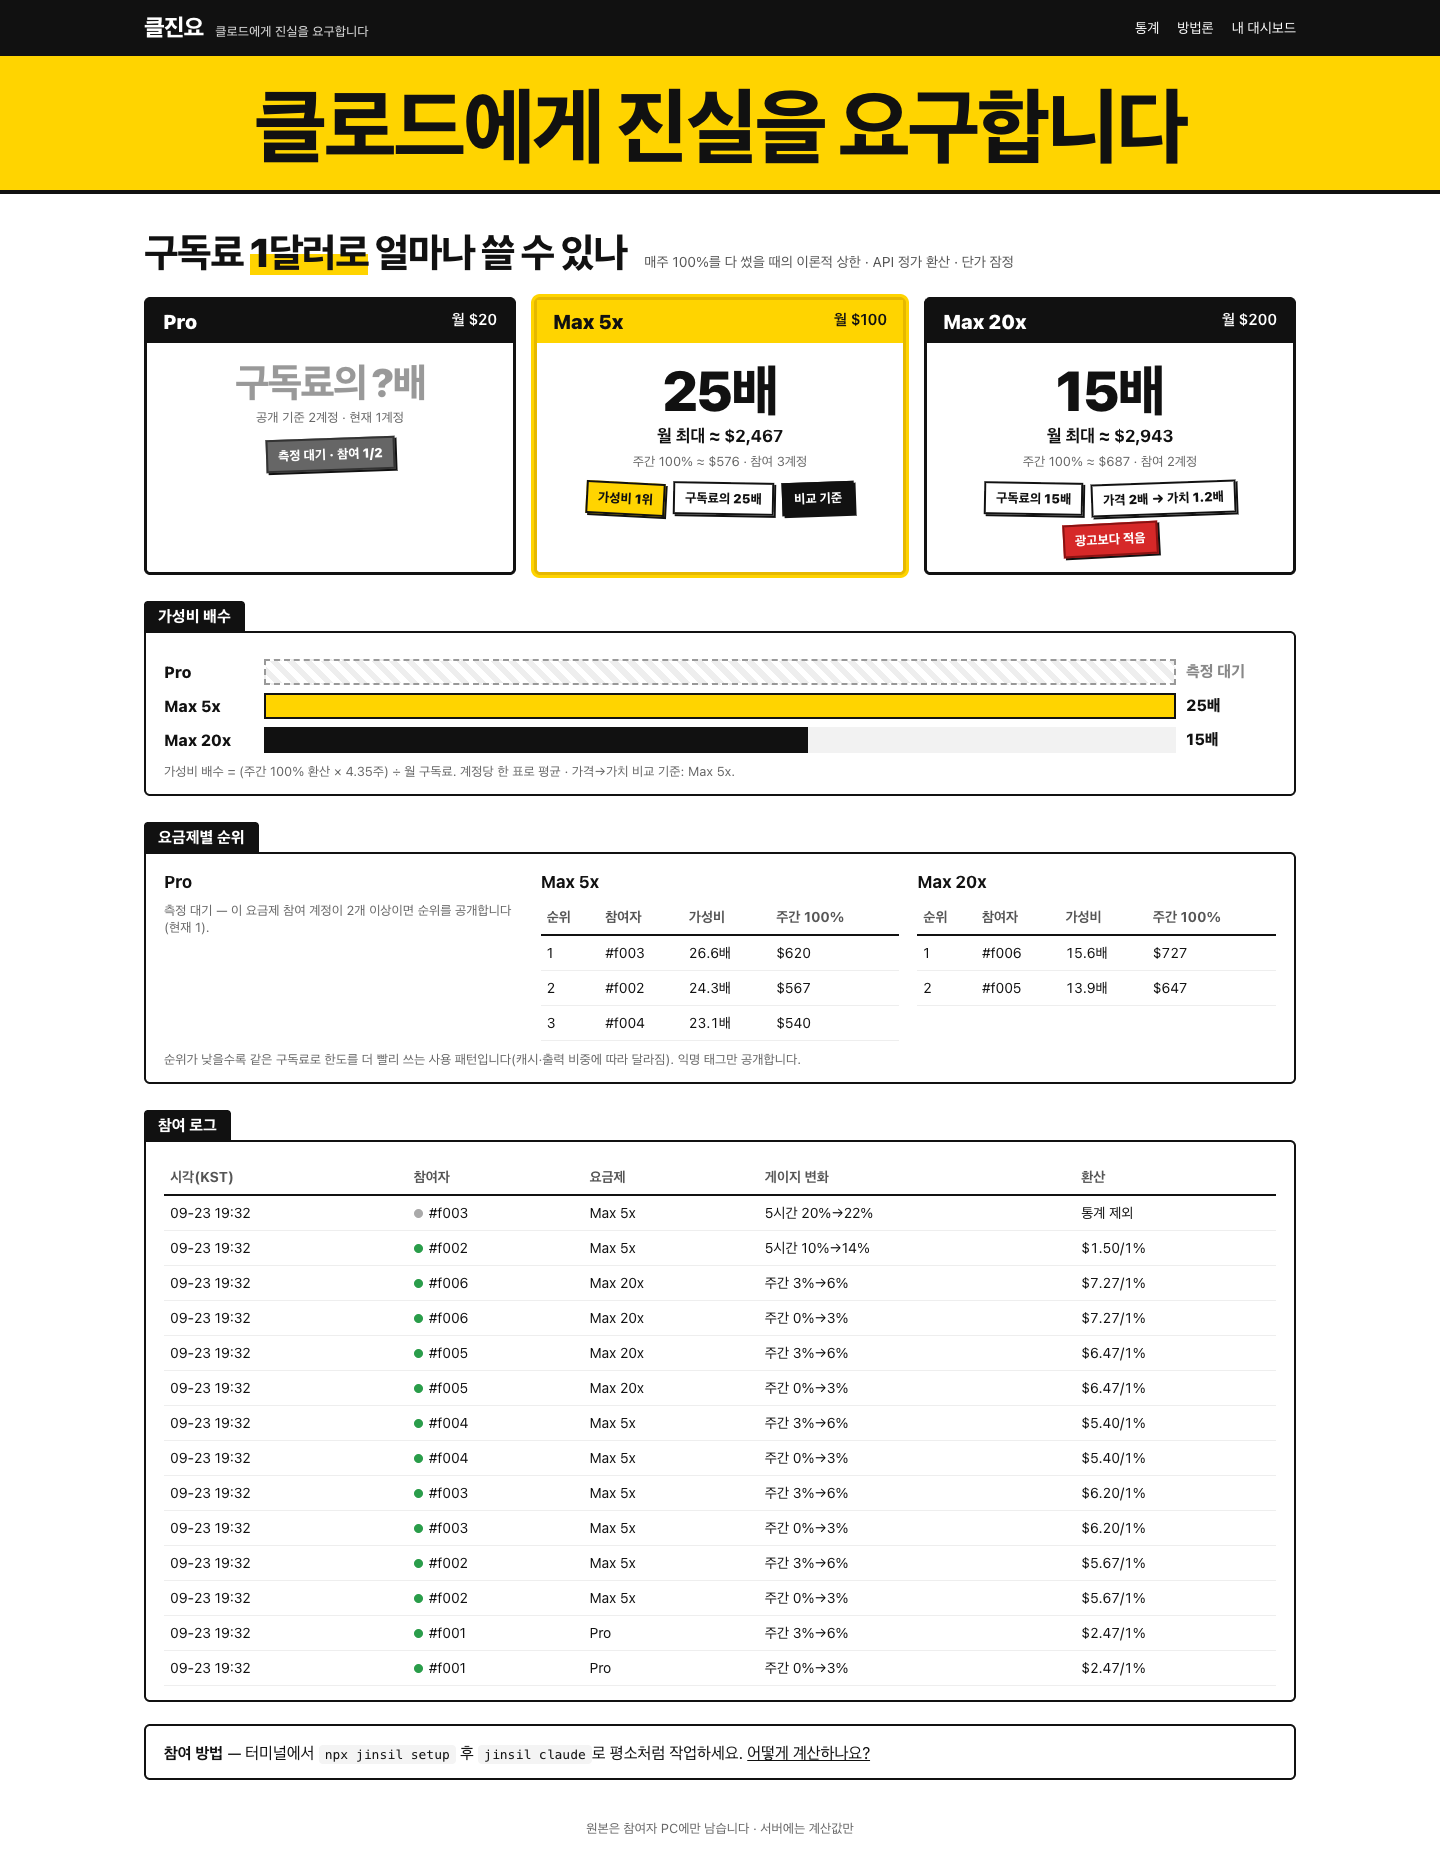
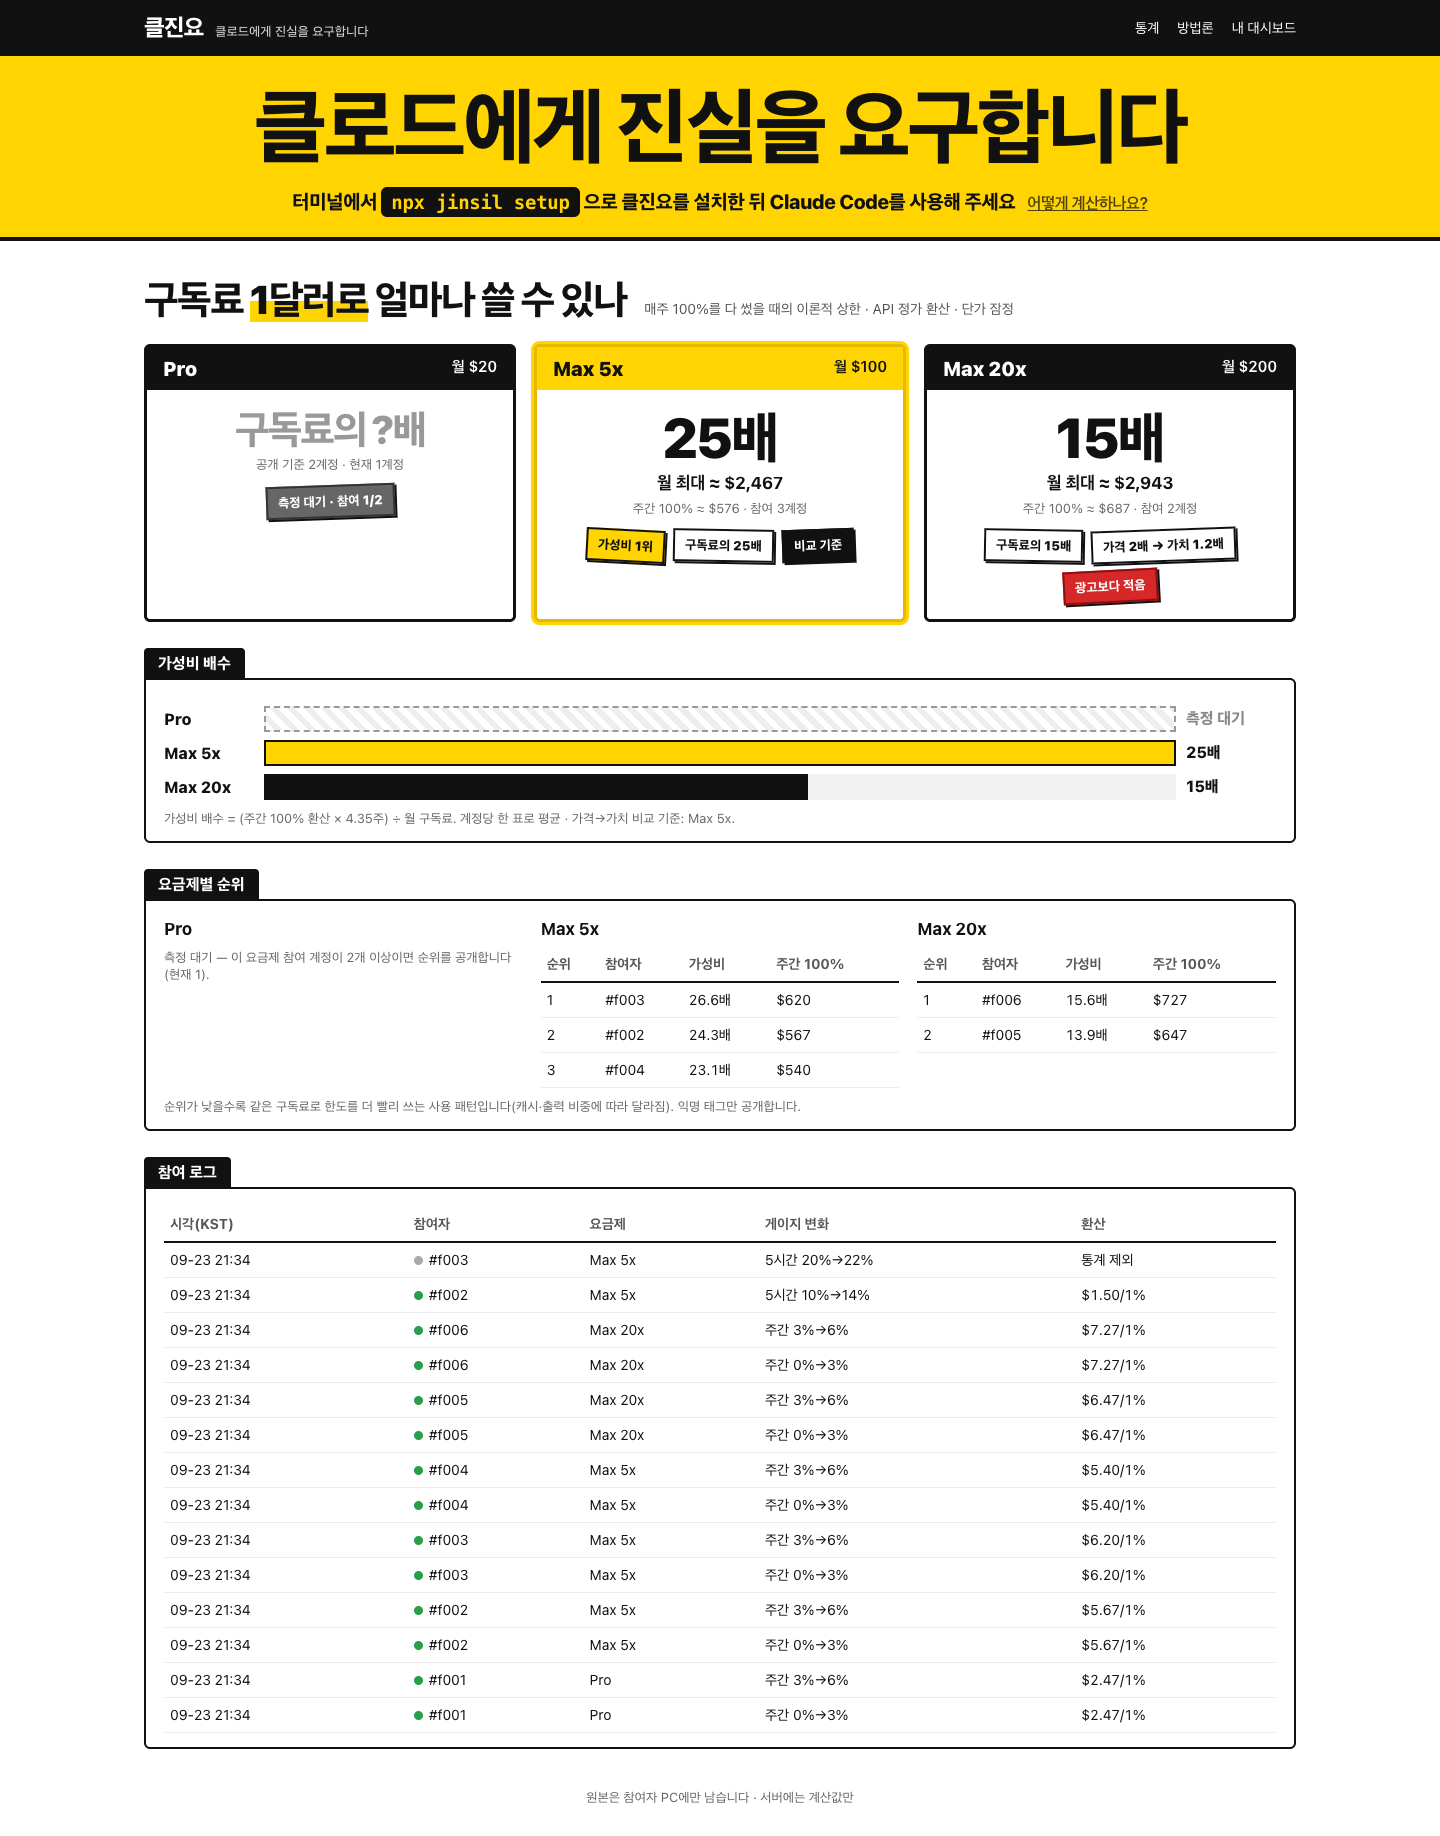
feat(web): 참여 방법을 메인 제목 바로 아래로 이동

diff --git a/server/src/pages.js b/server/src/pages.js
@@ -17,6 +17,9 @@ a{color:inherit}.wrap{max-width:1200px;margin:0 auto;padding:0 24px}
 .btn{display:inline-block;background:#FFD400;color:#111;font-weight:800;border:0;border-radius:6px;padding:9px 16px;font-size:14px;text-decoration:none;cursor:pointer}
 .btn.dark{background:#111;color:#fff}.btn.ghost{background:#fff;border:2px solid #111}
 .band{background:#FFD400;border-bottom:4px solid #111}.band h1{margin:0;padding:28px 0 22px;font-size:clamp(34px,7vw,84px);font-weight:900;letter-spacing:-3px;line-height:1;text-align:center}
+.band .join{margin:0;padding:0 0 22px;text-align:center;font-size:clamp(15px,1.9vw,20px);font-weight:800;letter-spacing:-.3px}
+.band .join code{background:#111;color:#FFD400;font-size:.95em;padding:4px 10px;border-radius:6px;font-weight:700}
+.band .join a{font-weight:600;font-size:.8em;margin-left:8px;opacity:.75}
 .lead{display:flex;align-items:baseline;gap:18px;flex-wrap:wrap;margin:34px 0 18px}.lead h2{margin:0;font-size:clamp(26px,3.6vw,40px);font-weight:900;letter-spacing:-1.5px}
 .lead h2 mark{background:linear-gradient(transparent 55%,#FFD400 55%);color:inherit}.lead p{margin:0;color:#555;font-size:14px}
 .cards{display:grid;grid-template-columns:repeat(3,1fr);gap:18px}
@@ -91,7 +94,7 @@ export async function home(req, env) {
     <td>${esc(PLAN_LABEL[r.plan] || '미확인')}</td><td>${gaugeLabel(r.gauge)} ${esc(r.range)}</td><td class="num">${esc(r.display)}</td></tr>`).join('')
     : '<tr><td colspan="5" class="note">아직 제출된 구간이 없습니다.</td></tr>';
   return html(layout('클진요 — 클로드에게 진실을 요구합니다', `
-<section class="band"><div class="wrap"><h1>클로드에게 진실을 요구합니다</h1></div></section>
+<section class="band"><div class="wrap"><h1>클로드에게 진실을 요구합니다</h1><p class="join">터미널에서 <code>npx jinsil setup</code> 으로 클진요를 설치한 뒤 Claude Code를 사용해 주세요 <a href="/methodology">어떻게 계산하나요?</a></p></div></section>
 <main class="wrap" id="stats">
   <div class="lead"><h2>구독료 <mark>1달러로</mark> 얼마나 쓸 수 있나</h2><p>${esc(s.note)}${s.price_status === 'provisional' ? ' · 단가 잠정' : ''}</p></div>
   <div class="cards">${plans.map(p => planCard(p, s.stickers, best)).join('')}</div>
@@ -100,7 +103,6 @@ export async function home(req, env) {
   <div class="tab">요금제별 순위</div><div class="panel"><div class="ranks">${rankTables}</div>
     <p class="note">순위가 낮을수록 같은 구독료로 한도를 더 빨리 쓰는 사용 패턴입니다(캐시·출력 비중에 따라 달라짐). 익명 태그만 공개합니다.</p></div>
   <div class="tab">참여 로그</div><div class="panel"><table><tr><th>시각(KST)</th><th>참여자</th><th>요금제</th><th>게이지 변화</th><th>환산</th></tr>${feedRows}</table></div>
-  <div class="panel noprint"><b>참여 방법</b> — 터미널에서 <code>npx jinsil setup</code> 한 번이면 끝. 이후 평소처럼 <code>claude</code>로 작업하면 기록·제출이 자동입니다. <a href="/methodology">어떻게 계산하나요?</a></div>
 </main>`, { user }), 200, { 'cache-control': 'no-store' });
 }
 
